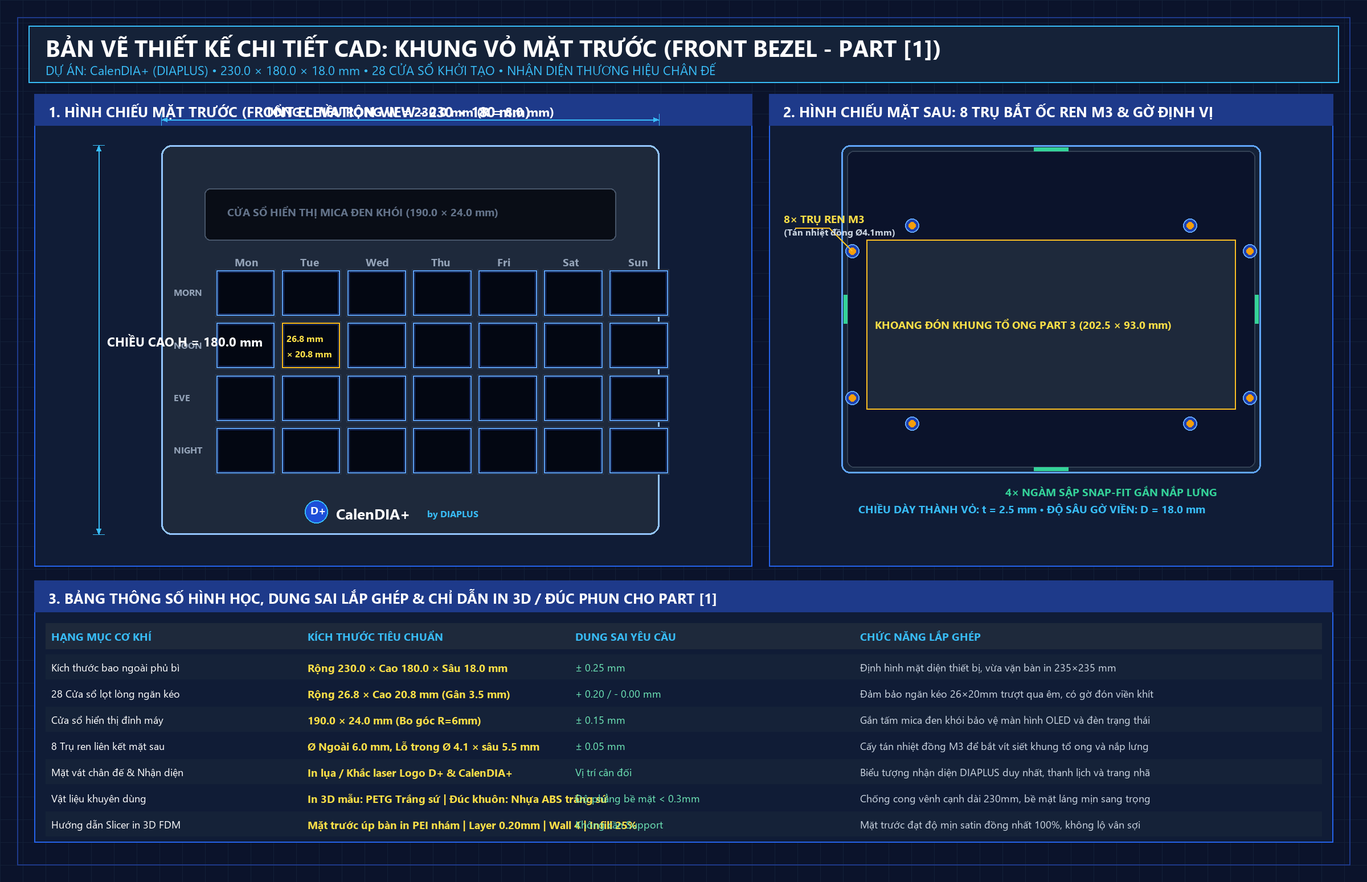
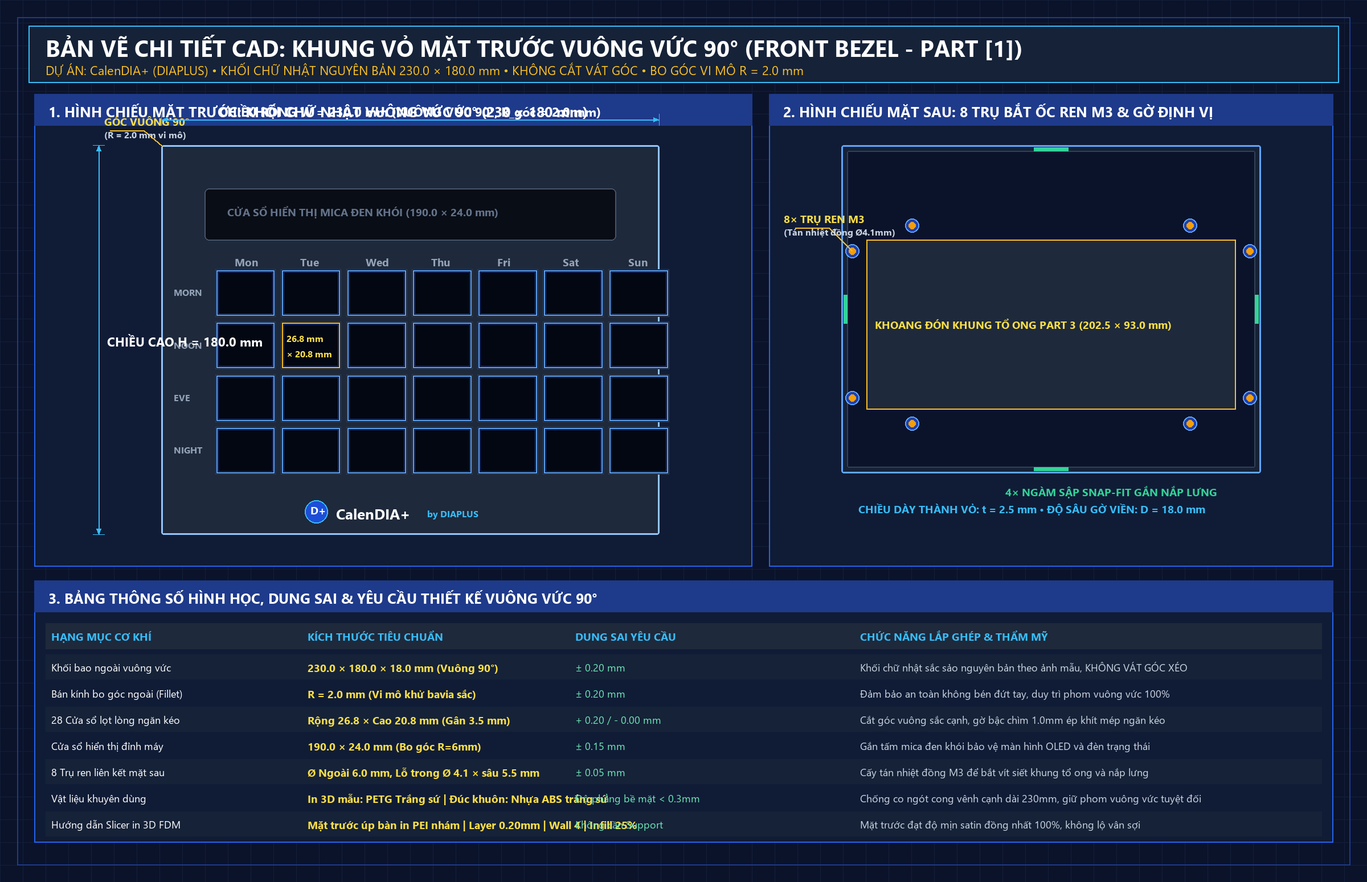
style: update front bezel (Part 1) to strictly rectilinear 90 deg boxy geometry without cut corners

diff --git a/scripts/generate_front_bezel_blueprint.py b/scripts/generate_front_bezel_blueprint.py
@@ -28,8 +28,8 @@ draw.rectangle([(30, 30), (W-30, H-30)], outline='#1E3A8A', width=2)
 
 # ==================== HEADER CARD ====================
 draw.rectangle([(50, 45), (W-50, 145)], fill='#152238', outline='#38BDF8', width=2)
-draw.text((80, 56), 'BẢN VẼ THIẾT KẾ CHI TIẾT CAD: KHUNG VỎ MẶT TRƯỚC (FRONT BEZEL - PART [1])', fill='#FFFFFF', font=font_title)
-draw.text((80, 108), 'DỰ ÁN: CalenDIA+ (DIAPLUS) • 230.0 × 180.0 × 18.0 mm • 28 CỬA SỔ KHỞI TẠO • NHẬN DIỆN THƯƠNG HIỆU CHÂN ĐẾ', fill='#38BDF8', font=font_subtitle)
+draw.text((80, 56), 'BẢN VẼ CHI TIẾT CAD: KHUNG VỎ MẶT TRƯỚC VUÔNG VỨC 90° (FRONT BEZEL - PART [1])', fill='#FFFFFF', font=font_title)
+draw.text((80, 108), 'DỰ ÁN: CalenDIA+ (DIAPLUS) • KHỐI CHỮ NHẬT NGUYÊN BẢN 230.0 × 180.0 mm • KHÔNG CẮT VÁT GÓC • BO GÓC VI MÔ R = 2.0 mm', fill='#FBBF24', font=font_subtitle)
 
 # Helper function to draw dimension lines
 def draw_dim_h(x1, x2, y, text, offset_text=14, color='#38BDF8'):
@@ -50,20 +50,12 @@ def draw_dim_v(x, y1, y2, text, offset_text=15, color='#38BDF8'):
     draw.line([(x-10, y2), (x+10, y2)], fill=color, width=1)
     draw.text((x + offset_text, (y1 + y2)//2 - 12), text, fill='#FFFFFF', font=font_dim)
 
-# ==================== PANEL 1: HÌNH CHIẾU MẶT TRƯỚC (FRONT VIEW) ====================
+# ==================== PANEL 1: HÌNH CHIẾU MẶT TRƯỚC VUÔNG VỨC ====================
 p1_x, p1_y, p1_w, p1_h = 60, 165, 1260, 830
 draw.rectangle([(p1_x, p1_y), (p1_x+p1_w, p1_y+p1_h)], fill='#101C36', outline='#2563EB', width=2)
 draw.rectangle([(p1_x, p1_y), (p1_x+p1_w, p1_y+55)], fill='#1E3A8A')
-draw.text((p1_x+25, p1_y+14), '1. HÌNH CHIẾU MẶT TRƯỚC (FRONT ELEVATION VIEW - 230 × 180 mm)', fill='#FFFFFF', font=font_heading)
+draw.text((p1_x+25, p1_y+14), '1. HÌNH CHIẾU MẶT TRƯỚC: KHỐI CHỮ NHẬT VUÔNG VỨC 90° (230 × 180 mm)', fill='#FFFFFF', font=font_heading)
 
-# Scale: 4.8 px per mm
-scale = 4.8
-b_w_px = 230.0 * scale # 1104 px
-b_h_px = 180.0 * scale # 864 px (fits tightly with padding, let's use scale = 4.3 for comfort)
-scale = 4.3
-b_w_px = 230.0 * scale # 989 px
-b_h_px = 180.0 * scale # 774 px (wait, panel height is 830, top header is 55, available is 775)
-# Let's use scale = 3.8
 scale = 3.8
 b_w_px = 230.0 * scale # 874 px
 b_h_px = 180.0 * scale # 684 px
@@ -71,25 +63,31 @@ b_h_px = 180.0 * scale # 684 px
 bx0 = p1_x + (p1_w - b_w_px) // 2 + 30
 by0 = p1_y + 90
 
-# Outer Main Shell (Front Bezel with R=8mm corners)
-draw.rounded_rectangle([(bx0, by0), (bx0 + b_w_px, by0 + b_h_px)], radius=18, fill='#1E293B', outline='#93C5FD', width=3)
+# Outer Main Shell: Crisp Rectangular with tiny radius R=4px (~2mm) - STRICTLY VUÔNG VỨC
+draw.rounded_rectangle([(bx0, by0), (bx0 + b_w_px, by0 + b_h_px)], radius=4, fill='#1E293B', outline='#93C5FD', width=3)
+
+# Highlight Callout for Square Corners
+draw.line([(bx0 + 2, by0 + 2), (bx0 - 30, by0 - 25)], fill='#FBBF24', width=2)
+draw.line([(bx0 - 30, by0 - 25), (bx0 - 90, by0 - 25)], fill='#FBBF24', width=2)
+draw.text((bx0 - 100, by0 - 55), 'GÓC VUÔNG 90°', fill='#FDE047', font=font_bold)
+draw.text((bx0 - 100, by0 - 30), '(R = 2.0 mm vi mô)', fill='#CBD5E1', font=font_dim_small)
 
 # Top Display Window (Smoked Acrylic Bezel: ~190mm x 25mm)
 top_w_px = 190.0 * scale # 722 px
 top_h_px = 24.0 * scale  # 91 px
 top_x0 = bx0 + (b_w_px - top_w_px) // 2
 top_y0 = by0 + 20 * scale # 76 px down from top
-draw.rounded_rectangle([(top_x0, top_y0), (top_x0 + top_w_px, top_y0 + top_h_px)], radius=10, fill='#090D16', outline='#475569', width=2)
+draw.rounded_rectangle([(top_x0, top_y0), (top_x0 + top_w_px, top_y0 + top_h_px)], radius=8, fill='#090D16', outline='#475569', width=2)
 draw.text((top_x0 + 40, top_y0 + 28), 'CỬA SỔ HIỂN THỊ MICA ĐEN KHÓI (190.0 × 24.0 mm)', fill='#64748B', font=font_bold)
 
 # Column Headers (Mon -> Sun)
 days = ['Mon', 'Tue', 'Wed', 'Thu', 'Fri', 'Sat', 'Sun']
-pw_px = 26.8 * scale # 101.8 px (opening width)
-ph_px = 20.8 * scale # 79.0 px  (opening height)
+pw_px = 26.8 * scale # 101.8 px
+ph_px = 20.8 * scale # 79.0 px
 rib_px = 3.5 * scale # 13.3 px
 
 mat_w_px = 7 * pw_px + 6 * rib_px
-mat_x0 = bx0 + (b_w_px - mat_w_px) // 2 + 15 * scale # shift right for row labels
+mat_x0 = bx0 + (b_w_px - mat_w_px) // 2 + 15 * scale
 mat_y0 = top_y0 + top_h_px + 14 * scale
 
 # Draw Day Labels above matrix
@@ -103,7 +101,7 @@ for r, t in enumerate(times):
     cy = mat_y0 + r * (ph_px + rib_px)
     draw.text((mat_x0 - 75, cy + ph_px//2 - 12), t, fill='#94A3B8', font=font_dim_small)
 
-# Draw 28 Window Cutouts
+# Draw 28 Window Cutouts (Vuông vức, sắc cạnh)
 for r in range(4):
     for c in range(7):
         cx = mat_x0 + c * (pw_px + rib_px)
@@ -111,7 +109,7 @@ for r in range(4):
         
         # Step recess border (1.0mm)
         draw.rectangle([(cx - 2, cy - 2), (cx + pw_px + 2, cy + ph_px + 2)], fill='#0F172A', outline='#334155', width=1)
-        # Main cutout opening
+        # Main cutout opening - Square corners
         draw.rectangle([(cx, cy), (cx + pw_px, cy + ph_px)], fill='#030712', outline='#60A5FA', width=2)
         # Inner guide shadow
         draw.rectangle([(cx + 3, cy + 3), (cx + pw_px - 3, cy + ph_px - 3)], outline='#1E3A8A', width=1)
@@ -134,26 +132,24 @@ draw.text((chin_x0, chin_y0 + 7), 'CalenDIA+', fill='#FFFFFF', font=font_brand)
 draw.text((chin_x0 + 160, chin_y0 + 14), 'by DIAPLUS', fill='#38BDF8', font=font_dim_small)
 
 # Overall Dimensions
-draw_dim_h(bx0, bx0 + b_w_px, by0 - 45, 'TỔNG CHIỀU RỘNG W = 230.0 mm (R = 8.0 mm)')
+draw_dim_h(bx0, bx0 + b_w_px, by0 - 45, 'CHIỀU RỘNG W = 230.0 mm (VUÔNG VỨC 90°, R_góc = 2.0 mm)')
 draw_dim_v(bx0 - 110, by0, by0 + b_h_px, 'CHIỀU CAO H = 180.0 mm')
 
-# ==================== PANEL 2: MẶT SAU & 8 TRỤ REN M3 (REAR VIEW) ====================
+# ==================== PANEL 2: MẶT SAU & 8 TRỤ REN M3 ====================
 p2_x, p2_y, p2_w, p2_h = 1350, 165, 990, 830
 draw.rectangle([(p2_x, p2_y), (p2_x+p2_w, p2_y+p2_h)], fill='#101C36', outline='#2563EB', width=2)
 draw.rectangle([(p2_x, p2_y), (p2_x+p2_w, p2_y+55)], fill='#1E3A8A')
 draw.text((p2_x+25, p2_y+14), '2. HÌNH CHIẾU MẶT SAU: 8 TRỤ BẮT ỐC REN M3 & GỜ ĐỊNH VỊ', fill='#FFFFFF', font=font_heading)
 
-# Scaled down rear representation
 r_scale = 3.2
 rb_w_px = 230.0 * r_scale # 736 px
 rb_h_px = 180.0 * r_scale # 576 px
 rx0 = p2_x + (p2_w - rb_w_px) // 2
 ry0 = p2_y + 90
 
-# Rear hollow cavity border
-draw.rounded_rectangle([(rx0, ry0), (rx0 + rb_w_px, ry0 + rb_h_px)], radius=15, fill='#152238', outline='#60A5FA', width=3)
-# Inner pocket boundary (Thành viền dày 2.5mm)
-draw.rounded_rectangle([(rx0 + 10, ry0 + 10), (rx0 + rb_w_px - 10, ry0 + rb_h_px - 10)], radius=12, fill='#0B132B', outline='#334155', width=2)
+# Rear hollow cavity border (Square boxy frame)
+draw.rounded_rectangle([(rx0, ry0), (rx0 + rb_w_px, ry0 + rb_h_px)], radius=4, fill='#152238', outline='#60A5FA', width=3)
+draw.rounded_rectangle([(rx0 + 10, ry0 + 10), (rx0 + rb_w_px - 10, ry0 + rb_h_px - 10)], radius=3, fill='#0B132B', outline='#334155', width=2)
 
 # Central Matrix opening for Part 3 Honeycomb frame (202.5 x 93.0 mm)
 c_w = 202.5 * r_scale
@@ -172,9 +168,7 @@ boss_coords = [
 ]
 
 for bx, by in boss_coords:
-    # Outer boss circle
     draw.ellipse([(bx - 12, by - 12), (bx + 12, by + 12)], fill='#1E40AF', outline='#60A5FA', width=2)
-    # Inner brass insert hole
     draw.ellipse([(bx - 6, by - 6), (bx + 6, by + 6)], fill='#F59E0B')
 
 # Callout for Boss
@@ -191,31 +185,29 @@ draw.rectangle([(rx0 + 4, ry0 + rb_h_px//2 - 25), (rx0 + 10, ry0 + rb_h_px//2 + 
 draw.rectangle([(rx0 + rb_w_px - 10, ry0 + rb_h_px//2 - 25), (rx0 + rb_w_px - 4, ry0 + rb_h_px//2 + 25)], fill='#34D399')
 draw.text((rx0 + rb_w_px//2 - 80, ry0 + rb_h_px + 20), '4× NGÀM SẬP SNAP-FIT GẮN NẮP LƯNG', fill='#34D399', font=font_bold)
 
-# Depth indicator
 draw.text((rx0 + 30, ry0 + rb_h_px + 50), 'CHIỀU DÀY THÀNH VỎ: t = 2.5 mm • ĐỘ SÂU GỜ VIỀN: D = 18.0 mm', fill='#38BDF8', font=font_bold)
 
 # ==================== PANEL 3: BẢNG THÔNG SỐ KỸ THUẬT & DUNG SAI PART [1] ====================
 p3_x, p3_y, p3_w, p3_h = 60, 1020, W - 120, 460
 draw.rectangle([(p3_x, p3_y), (p3_x+p3_w, p3_y+p3_h)], fill='#101C36', outline='#2563EB', width=2)
 draw.rectangle([(p3_x, p3_y), (p3_x+p3_w, p3_y+55)], fill='#1E3A8A')
-draw.text((p3_x+25, p3_y+14), '3. BẢNG THÔNG SỐ HÌNH HỌC, DUNG SAI LẮP GHÉP & CHỈ DẪN IN 3D / ĐÚC PHUN CHO PART [1]', fill='#FFFFFF', font=font_heading)
+draw.text((p3_x+25, p3_y+14), '3. BẢNG THÔNG SỐ HÌNH HỌC, DUNG SAI & YÊU CẦU THIẾT KẾ VUÔNG VỨC 90°', fill='#FFFFFF', font=font_heading)
 
-# Table headers
 t_cols = [p3_x+30, p3_x+480, p3_x+950, p3_x+1450, p3_x+1850]
 t_y = p3_y + 75
 draw.rectangle([(p3_x+20, t_y), (p3_x+p3_w-20, t_y+45)], fill='#1E293B')
 draw.text((t_cols[0], t_y+10), 'HẠNG MỤC CƠ KHÍ', fill='#38BDF8', font=font_bold)
 draw.text((t_cols[1], t_y+10), 'KÍCH THƯỚC TIÊU CHUẨN', fill='#38BDF8', font=font_bold)
 draw.text((t_cols[2], t_y+10), 'DUNG SAI YÊU CẦU', fill='#38BDF8', font=font_bold)
-draw.text((t_cols[3], t_y+10), 'CHỨC NĂNG LẮP GHÉP', fill='#38BDF8', font=font_bold)
+draw.text((t_cols[3], t_y+10), 'CHỨC NĂNG LẮP GHÉP & THẨM MỸ', fill='#38BDF8', font=font_bold)
 
 table_data = [
-    ('Kích thước bao ngoài phủ bì', 'Rộng 230.0 × Cao 180.0 × Sâu 18.0 mm', '± 0.25 mm', 'Định hình mặt diện thiết bị, vừa vặn bàn in 235×235 mm'),
-    ('28 Cửa sổ lọt lòng ngăn kéo', 'Rộng 26.8 × Cao 20.8 mm (Gân 3.5 mm)', '+ 0.20 / - 0.00 mm', 'Đảm bảo ngăn kéo 26×20mm trượt qua êm, có gờ đón viền khít'),
+    ('Khối bao ngoài vuông vức', '230.0 × 180.0 × 18.0 mm (Vuông 90°)', '± 0.20 mm', 'Khối chữ nhật sắc sảo nguyên bản theo ảnh mẫu, KHÔNG VÁT GÓC XÉO'),
+    ('Bán kính bo góc ngoài (Fillet)', 'R = 2.0 mm (Vi mô khử bavia sắc)', '± 0.20 mm', 'Đảm bảo an toàn không bén đứt tay, duy trì phom vuông vức 100%'),
+    ('28 Cửa sổ lọt lòng ngăn kéo', 'Rộng 26.8 × Cao 20.8 mm (Gân 3.5 mm)', '+ 0.20 / - 0.00 mm', 'Cắt góc vuông sắc cạnh, gờ bậc chìm 1.0mm ép khít mép ngăn kéo'),
     ('Cửa sổ hiển thị đỉnh máy', '190.0 × 24.0 mm (Bo góc R=6mm)', '± 0.15 mm', 'Gắn tấm mica đen khói bảo vệ màn hình OLED và đèn trạng thái'),
     ('8 Trụ ren liên kết mặt sau', 'Ø Ngoài 6.0 mm, Lỗ trong Ø 4.1 × sâu 5.5 mm', '± 0.05 mm', 'Cấy tán nhiệt đồng M3 để bắt vít siết khung tổ ong và nắp lưng'),
-    ('Mặt vát chân đế & Nhận diện', 'In lụa / Khắc laser Logo D+ & CalenDIA+', 'Vị trí cân đối', 'Biểu tượng nhận diện DIAPLUS duy nhất, thanh lịch và trang nhã'),
-    ('Vật liệu khuyên dùng', 'In 3D mẫu: PETG Trắng sứ | Đúc khuôn: Nhựa ABS trắng sứ', 'Độ phẳng bề mặt < 0.3mm', 'Chống cong vênh cạnh dài 230mm, bề mặt láng mịn sang trọng'),
+    ('Vật liệu khuyên dùng', 'In 3D mẫu: PETG Trắng sứ | Đúc khuôn: Nhựa ABS trắng sứ', 'Độ phẳng bề mặt < 0.3mm', 'Chống co ngót cong vênh cạnh dài 230mm, giữ phom vuông vức tuyệt đối'),
     ('Hướng dẫn Slicer in 3D FDM', 'Mặt trước úp bàn in PEI nhám | Layer 0.20mm | Wall 4 | Infill 25%', 'Không cần Support', 'Mặt trước đạt độ mịn satin đồng nhất 100%, không lộ vân sợi')
 ]
 

diff --git a/scripts/update_part1_spec.py b/scripts/update_part1_spec.py
@@ -3,30 +3,32 @@ file_path = r'd:\DIA+\ban_ve_chi_tiet_cad_calendia_plus.md'
 with open(file_path, 'r', encoding='utf-8') as f:
     content = f.read()
 
-new_part1 = """### PART [1]: Khung Vỏ Mặt Trước & Ma Trận Cửa Sổ (Front Bezel & Matrix Faceplate)
+new_part1 = """### PART [1]: Khung Vỏ Mặt Trước Vuông Vức 90° (Front Bezel & Matrix Faceplate)
 
 #### Bản Vẽ Mô Hình 3D CAD & Bản Vẽ Kỹ Thuật Bóc Tách Chi Tiết:
-![Bản vẽ 3D Khung vỏ mặt trước CalenDIA+](calendia_front_bezel_cad_render.jpg)
-*(Mô hình 3D CAD Khung vỏ mặt trước CalenDIA+: Kích thước 230 × 180 × 18 mm, cửa sổ hiển thị OLED đỉnh, 28 cửa sổ ma trận 7×4, mặt vát chân đế in logo D+ CalenDIA+, mặt sau có 8 trụ ren M3)*
+![Bản vẽ 3D Khung vỏ mặt trước vuông vức CalenDIA+](calendia_front_bezel_cad_render.jpg)
+*(Mô hình 3D CAD Khung vỏ mặt trước CalenDIA+: Thiết kế vuông vức 90° nguyên bản, kích thước 230 × 180 × 18 mm, không cắt vát góc, bo góc vi mô R = 2.0 mm, cửa sổ hiển thị OLED đỉnh, 28 ô ma trận 7×4, mặt vát chân đế in logo D+ CalenDIA+)*
 
-![Bản vẽ kỹ thuật chi tiết Khung vỏ mặt trước](ban_ve_khung_vo_mat_truoc_cad.png)
-*(Bản vẽ bóc tách hình chiếu đứng, hình chiếu mặt sau với 8 trụ ren M3 và bảng thông số dung sai gia công cho Part 1)*
+![Bản vẽ kỹ thuật chi tiết Khung vỏ mặt trước vuông vức](ban_ve_khung_vo_mat_truoc_cad.png)
+*(Bản vẽ bóc tách hình chiếu đứng khối hộp vuông vức 90°, hình chiếu mặt sau với 8 trụ ren M3 và bảng thông số dung sai gia công cho Part 1)*
 
-* **Chức năng:** Định hình diện mạo mặt trước thiết bị, định vị cửa sổ hiển thị OLED/dải đèn trạng thái đỉnh máy, tạo 28 cửa sổ bao bọc phẳng khít cho 28 ngăn kéo thuốc, khắc nhãn ngày/buổi công thái học, hiển thị nhận diện thương hiệu DIAPLUS duy nhất ở chân đế và liên kết toàn bộ khung máy.
-* **Kích thước ngoài phủ bì:** **Rộng 230.0 mm × Cao 180.0 mm × Dày 18.0 mm** (Bo viền 4 góc ngoài bán kính cong mềm mại $R = 8.0\text{ mm}$, vừa khít bàn in 3D FDM phổ thông $235 \times 235\text{ mm}$).
-* **Kết cấu chi tiết:**
-  * **Cửa sổ hiển thị đỉnh máy:** Kích thước lọt lòng **$190.0\text{ mm} \times 24.0\text{ mm}$** (bo góc $R = 6.0\text{ mm}$), có gờ bậc chìm đón vừa tấm mica/PMMA đen khói bảo vệ màn hình OLED và đèn báo.
-  * **Ma trận 28 cửa sổ ngăn kéo:**
-    * 7 cột × 4 hàng. Kích thước lọt lòng mỗi cửa sổ: **Rộng 26.8 mm × Cao 20.8 mm** (khe hở $0.4\text{ mm}$ mỗi chiều so với ngăn kéo $26.0 \times 20.0\text{ mm}$ giúp khay trượt qua nhẹ nhàng).
-    * Bề dày gân ngăn cách giữa các ô: **$3.5\text{ mm}$** cứng vững.
+* **Yêu cầu thẩm mỹ & Hình khối hình học:**
+  * **Khối hộp chữ nhật vuông vức 90° nguyên bản (Pure Rectilinear Box):** Bốn góc ngoài được thiết kế vuông thành sắc cạnh chuẩn xác theo hình mẫu tham chiếu, **tuyệt đối không cắt vát góc xéo (Chamfer-free)**, không bo tròn bầu dục lớn.
+  * **Bán kính bo góc ngoài vi mô:** **$R = 2.0\text{ mm}$** (chỉ vừa đủ để triệt tiêu bavia sắc bén khi chạm tay, duy trì 100% cảm giác nguyên khối, hiện đại và vững chãi phong cách thiết bị y tế cao cấp).
+* **Kích thước ngoài phủ bì:** **Rộng 230.0 mm × Cao 180.0 mm × Dày 18.0 mm** (vừa khít bàn in 3D FDM phổ thông $235 \\times 235\\text{ mm}$).
+* **Kết cấu chi tiết các vùng chức năng:**
+  * **Cửa sổ hiển thị đỉnh máy:** Kích thước lọt lòng **$190.0\text{ mm} \\times 24.0\text{ mm}$** (bo góc cong nhẹ $R = 6.0\text{ mm}$ ở hai đầu), có gờ bậc chìm đón vừa tấm mica đen khói bảo vệ màn hình OLED và đèn báo.
+  * **Ma trận 28 cửa sổ ngăn kéo vuông vức:**
+    * 7 cột × 4 hàng. Kích thước lọt lòng mỗi cửa sổ: **Rộng 26.8 mm × Cao 20.8 mm** (khe hở $0.4\text{ mm}$ mỗi chiều so với ngăn kéo $26.0 \\times 20.0\text{ mm}$ giúp khay trượt qua nhẹ nhàng).
+    * Bề dày gân ngăn cách giữa các ô: **$3.5\text{ mm}$** thẳng tắp, sắc nét.
     * Chu vi mép trong từng cửa sổ có **gờ bậc chìm (Recess Step)** sâu $1.2\text{ mm}$, rộng $1.0\text{ mm}$ để đón mép bích chắn bụi của ngăn kéo Part 2 ép khít vào khi đóng, che kín 100% bụi bẩn.
   * **Chữ dập nổi / khắc chìm sắc nét:**
     * Tiêu đề thứ trong tuần: `Mon`, `Tue`, `Wed`, `Thu`, `Fri`, `Sat`, `Sun` (hoặc `T.HAI` ... `CN`) dập sâu $0.6\text{ mm}$.
     * Cột buổi trong ngày: `MORN`, `NOON`, `EVE`, `NIGHT` (hoặc `SÁNG`, `TRƯA`, `CHIỀU`, `TỐI`) dập sâu $0.6\text{ mm}$.
-  * **Mặt vát chân đế (Front Stand Chin):** Mặt phẳng nghiêng $75^\circ$ đặt duy nhất biểu tượng Logo `D+` màu Royal Blue với dải lượn sóng Cyan và tên sản phẩm `CalenDIA+` sang trọng, trang nhã.
+  * **Mặt vát chân đế (Front Stand Chin):** Mặt phẳng nghiêng $75^\\circ$ đặt duy nhất biểu tượng Logo `D+` màu Royal Blue với dải lượn sóng Cyan và tên sản phẩm `CalenDIA+` sang trọng, trang nhã.
   * **Kết cấu liên kết mặt sau (Rear Architecture):**
-    * Khoang rỗng âm đón vừa vặn cụm Khung tổ ong Part 3 kích thước $202.5 \times 93.0\text{ mm}$.
-    * **8 Trụ ren M3 đúc nổi:** Đường kính ngoài $\varnothing 6.0\text{ mm}$, lỗ trong $\varnothing 4.1\text{ mm} \times$ sâu $5.5\text{ mm}$ cấy tán nhiệt đồng ren trong M3 để bắt vít siết chặt khung tổ ong và nắp lưng.
+    * Khoang rỗng âm vuông vức đón vừa vặn cụm Khung tổ ong Part 3 kích thước $202.5 \\times 93.0\\text{ mm}$.
+    * **8 Trụ ren M3 đúc nổi:** Đường kính ngoài $\\varnothing 6.0\text{ mm}$, lỗ trong $\\varnothing 4.1\text{ mm} \\times$ sâu $5.5\text{ mm}$ cấy tán nhiệt đồng ren trong M3 để bắt vít siết chặt khung tổ ong và nắp lưng.
     * **4 Ngàm sập định vị (Snap-fit tabs):** Phân bố ở 4 cạnh để gài khớp nhanh với nắp lưng trước khi siết ốc.
 * **Vật liệu & Hướng dẫn gia công:**
   * **In 3D FDM:** Nhựa **PETG màu Trắng sứ (Porcelain White)**. Đặt **mặt trước úp trực tiếp xuống bàn in PEI nhám mờ (Textured PEI)** để sau khi bóc ra, bề mặt đạt độ mịn satin mờ sang trọng, không lộ vân sợi, độ phẳng $<0.3\text{ mm}$.

diff --git a/ban_ve_chi_tiet_cad_calendia_plus.md b/ban_ve_chi_tiet_cad_calendia_plus.md
@@ -96,30 +96,32 @@ Cơ chế hoạt động hoàn toàn bằng **cơ học thuần túy (Mechanical
 
 ---
 
-### PART [1]: Khung Vỏ Mặt Trước & Ma Trận Cửa Sổ (Front Bezel & Matrix Faceplate)
+### PART [1]: Khung Vỏ Mặt Trước Vuông Vức 90° (Front Bezel & Matrix Faceplate)
 
 #### Bản Vẽ Mô Hình 3D CAD & Bản Vẽ Kỹ Thuật Bóc Tách Chi Tiết:
-![Bản vẽ 3D Khung vỏ mặt trước CalenDIA+](calendia_front_bezel_cad_render.jpg)
-*(Mô hình 3D CAD Khung vỏ mặt trước CalenDIA+: Kích thước 230 × 180 × 18 mm, cửa sổ hiển thị OLED đỉnh, 28 cửa sổ ma trận 7×4, mặt vát chân đế in logo D+ CalenDIA+, mặt sau có 8 trụ ren M3)*
+![Bản vẽ 3D Khung vỏ mặt trước vuông vức CalenDIA+](calendia_front_bezel_cad_render.jpg)
+*(Mô hình 3D CAD Khung vỏ mặt trước CalenDIA+: Thiết kế vuông vức 90° nguyên bản, kích thước 230 × 180 × 18 mm, không cắt vát góc, bo góc vi mô R = 2.0 mm, cửa sổ hiển thị OLED đỉnh, 28 ô ma trận 7×4, mặt vát chân đế in logo D+ CalenDIA+)*
 
-![Bản vẽ kỹ thuật chi tiết Khung vỏ mặt trước](ban_ve_khung_vo_mat_truoc_cad.png)
-*(Bản vẽ bóc tách hình chiếu đứng, hình chiếu mặt sau với 8 trụ ren M3 và bảng thông số dung sai gia công cho Part 1)*
+![Bản vẽ kỹ thuật chi tiết Khung vỏ mặt trước vuông vức](ban_ve_khung_vo_mat_truoc_cad.png)
+*(Bản vẽ bóc tách hình chiếu đứng khối hộp vuông vức 90°, hình chiếu mặt sau với 8 trụ ren M3 và bảng thông số dung sai gia công cho Part 1)*
 
-* **Chức năng:** Định hình diện mạo mặt trước thiết bị, định vị cửa sổ hiển thị OLED/dải đèn trạng thái đỉnh máy, tạo 28 cửa sổ bao bọc phẳng khít cho 28 ngăn kéo thuốc, khắc nhãn ngày/buổi công thái học, hiển thị nhận diện thương hiệu DIAPLUS duy nhất ở chân đế và liên kết toàn bộ khung máy.
-* **Kích thước ngoài phủ bì:** **Rộng 230.0 mm × Cao 180.0 mm × Dày 18.0 mm** (Bo viền 4 góc ngoài bán kính cong mềm mại $R = 8.0	ext{ mm}$, vừa khít bàn in 3D FDM phổ thông $235 	imes 235	ext{ mm}$).
-* **Kết cấu chi tiết:**
-  * **Cửa sổ hiển thị đỉnh máy:** Kích thước lọt lòng **$190.0	ext{ mm} 	imes 24.0	ext{ mm}$** (bo góc $R = 6.0	ext{ mm}$), có gờ bậc chìm đón vừa tấm mica/PMMA đen khói bảo vệ màn hình OLED và đèn báo.
-  * **Ma trận 28 cửa sổ ngăn kéo:**
-    * 7 cột × 4 hàng. Kích thước lọt lòng mỗi cửa sổ: **Rộng 26.8 mm × Cao 20.8 mm** (khe hở $0.4	ext{ mm}$ mỗi chiều so với ngăn kéo $26.0 	imes 20.0	ext{ mm}$ giúp khay trượt qua nhẹ nhàng).
-    * Bề dày gân ngăn cách giữa các ô: **$3.5	ext{ mm}$** cứng vững.
+* **Yêu cầu thẩm mỹ & Hình khối hình học:**
+  * **Khối hộp chữ nhật vuông vức 90° nguyên bản (Pure Rectilinear Box):** Bốn góc ngoài được thiết kế vuông thành sắc cạnh chuẩn xác theo hình mẫu tham chiếu, **tuyệt đối không cắt vát góc xéo (Chamfer-free)**, không bo tròn bầu dục lớn.
+  * **Bán kính bo góc ngoài vi mô:** **$R = 2.0	ext{ mm}$** (chỉ vừa đủ để triệt tiêu bavia sắc bén khi chạm tay, duy trì 100% cảm giác nguyên khối, hiện đại và vững chãi phong cách thiết bị y tế cao cấp).
+* **Kích thước ngoài phủ bì:** **Rộng 230.0 mm × Cao 180.0 mm × Dày 18.0 mm** (vừa khít bàn in 3D FDM phổ thông $235 \times 235\text{ mm}$).
+* **Kết cấu chi tiết các vùng chức năng:**
+  * **Cửa sổ hiển thị đỉnh máy:** Kích thước lọt lòng **$190.0	ext{ mm} \times 24.0	ext{ mm}$** (bo góc cong nhẹ $R = 6.0	ext{ mm}$ ở hai đầu), có gờ bậc chìm đón vừa tấm mica đen khói bảo vệ màn hình OLED và đèn báo.
+  * **Ma trận 28 cửa sổ ngăn kéo vuông vức:**
+    * 7 cột × 4 hàng. Kích thước lọt lòng mỗi cửa sổ: **Rộng 26.8 mm × Cao 20.8 mm** (khe hở $0.4	ext{ mm}$ mỗi chiều so với ngăn kéo $26.0 \times 20.0	ext{ mm}$ giúp khay trượt qua nhẹ nhàng).
+    * Bề dày gân ngăn cách giữa các ô: **$3.5	ext{ mm}$** thẳng tắp, sắc nét.
     * Chu vi mép trong từng cửa sổ có **gờ bậc chìm (Recess Step)** sâu $1.2	ext{ mm}$, rộng $1.0	ext{ mm}$ để đón mép bích chắn bụi của ngăn kéo Part 2 ép khít vào khi đóng, che kín 100% bụi bẩn.
   * **Chữ dập nổi / khắc chìm sắc nét:**
     * Tiêu đề thứ trong tuần: `Mon`, `Tue`, `Wed`, `Thu`, `Fri`, `Sat`, `Sun` (hoặc `T.HAI` ... `CN`) dập sâu $0.6	ext{ mm}$.
     * Cột buổi trong ngày: `MORN`, `NOON`, `EVE`, `NIGHT` (hoặc `SÁNG`, `TRƯA`, `CHIỀU`, `TỐI`) dập sâu $0.6	ext{ mm}$.
   * **Mặt vát chân đế (Front Stand Chin):** Mặt phẳng nghiêng $75^\circ$ đặt duy nhất biểu tượng Logo `D+` màu Royal Blue với dải lượn sóng Cyan và tên sản phẩm `CalenDIA+` sang trọng, trang nhã.
   * **Kết cấu liên kết mặt sau (Rear Architecture):**
-    * Khoang rỗng âm đón vừa vặn cụm Khung tổ ong Part 3 kích thước $202.5 	imes 93.0	ext{ mm}$.
-    * **8 Trụ ren M3 đúc nổi:** Đường kính ngoài $arnothing 6.0	ext{ mm}$, lỗ trong $arnothing 4.1	ext{ mm} 	imes$ sâu $5.5	ext{ mm}$ cấy tán nhiệt đồng ren trong M3 để bắt vít siết chặt khung tổ ong và nắp lưng.
+    * Khoang rỗng âm vuông vức đón vừa vặn cụm Khung tổ ong Part 3 kích thước $202.5 \times 93.0\text{ mm}$.
+    * **8 Trụ ren M3 đúc nổi:** Đường kính ngoài $\varnothing 6.0	ext{ mm}$, lỗ trong $\varnothing 4.1	ext{ mm} \times$ sâu $5.5	ext{ mm}$ cấy tán nhiệt đồng ren trong M3 để bắt vít siết chặt khung tổ ong và nắp lưng.
     * **4 Ngàm sập định vị (Snap-fit tabs):** Phân bố ở 4 cạnh để gài khớp nhanh với nắp lưng trước khi siết ốc.
 * **Vật liệu & Hướng dẫn gia công:**
   * **In 3D FDM:** Nhựa **PETG màu Trắng sứ (Porcelain White)**. Đặt **mặt trước úp trực tiếp xuống bàn in PEI nhám mờ (Textured PEI)** để sau khi bóc ra, bề mặt đạt độ mịn satin mờ sang trọng, không lộ vân sợi, độ phẳng $<0.3	ext{ mm}$.
